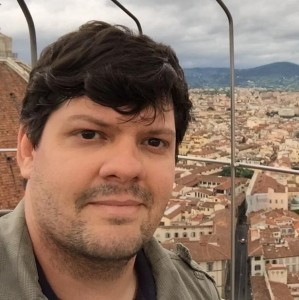
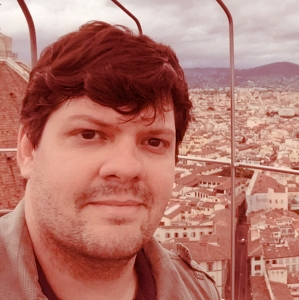
added filter to photos

diff --git a/index.html b/index.html
@@ -297,7 +297,7 @@
 									<li><a href="https://www.linkedin.com/in/matheus-rodrigues-b9a3061a6/"><span
 												class="icon-linkedin"></span></a></li>
 								</ul>
-								<img src="images/rodrigues-profile.png" alt="Image" class="img-fluid">
+								<img src="images/rodrigues-profile.jpeg" alt="Image" class="img-fluid">
 							</figure>
 							<div class="info">
 								<h3 class="mb-2">Matheus Rodrigues</h3>
